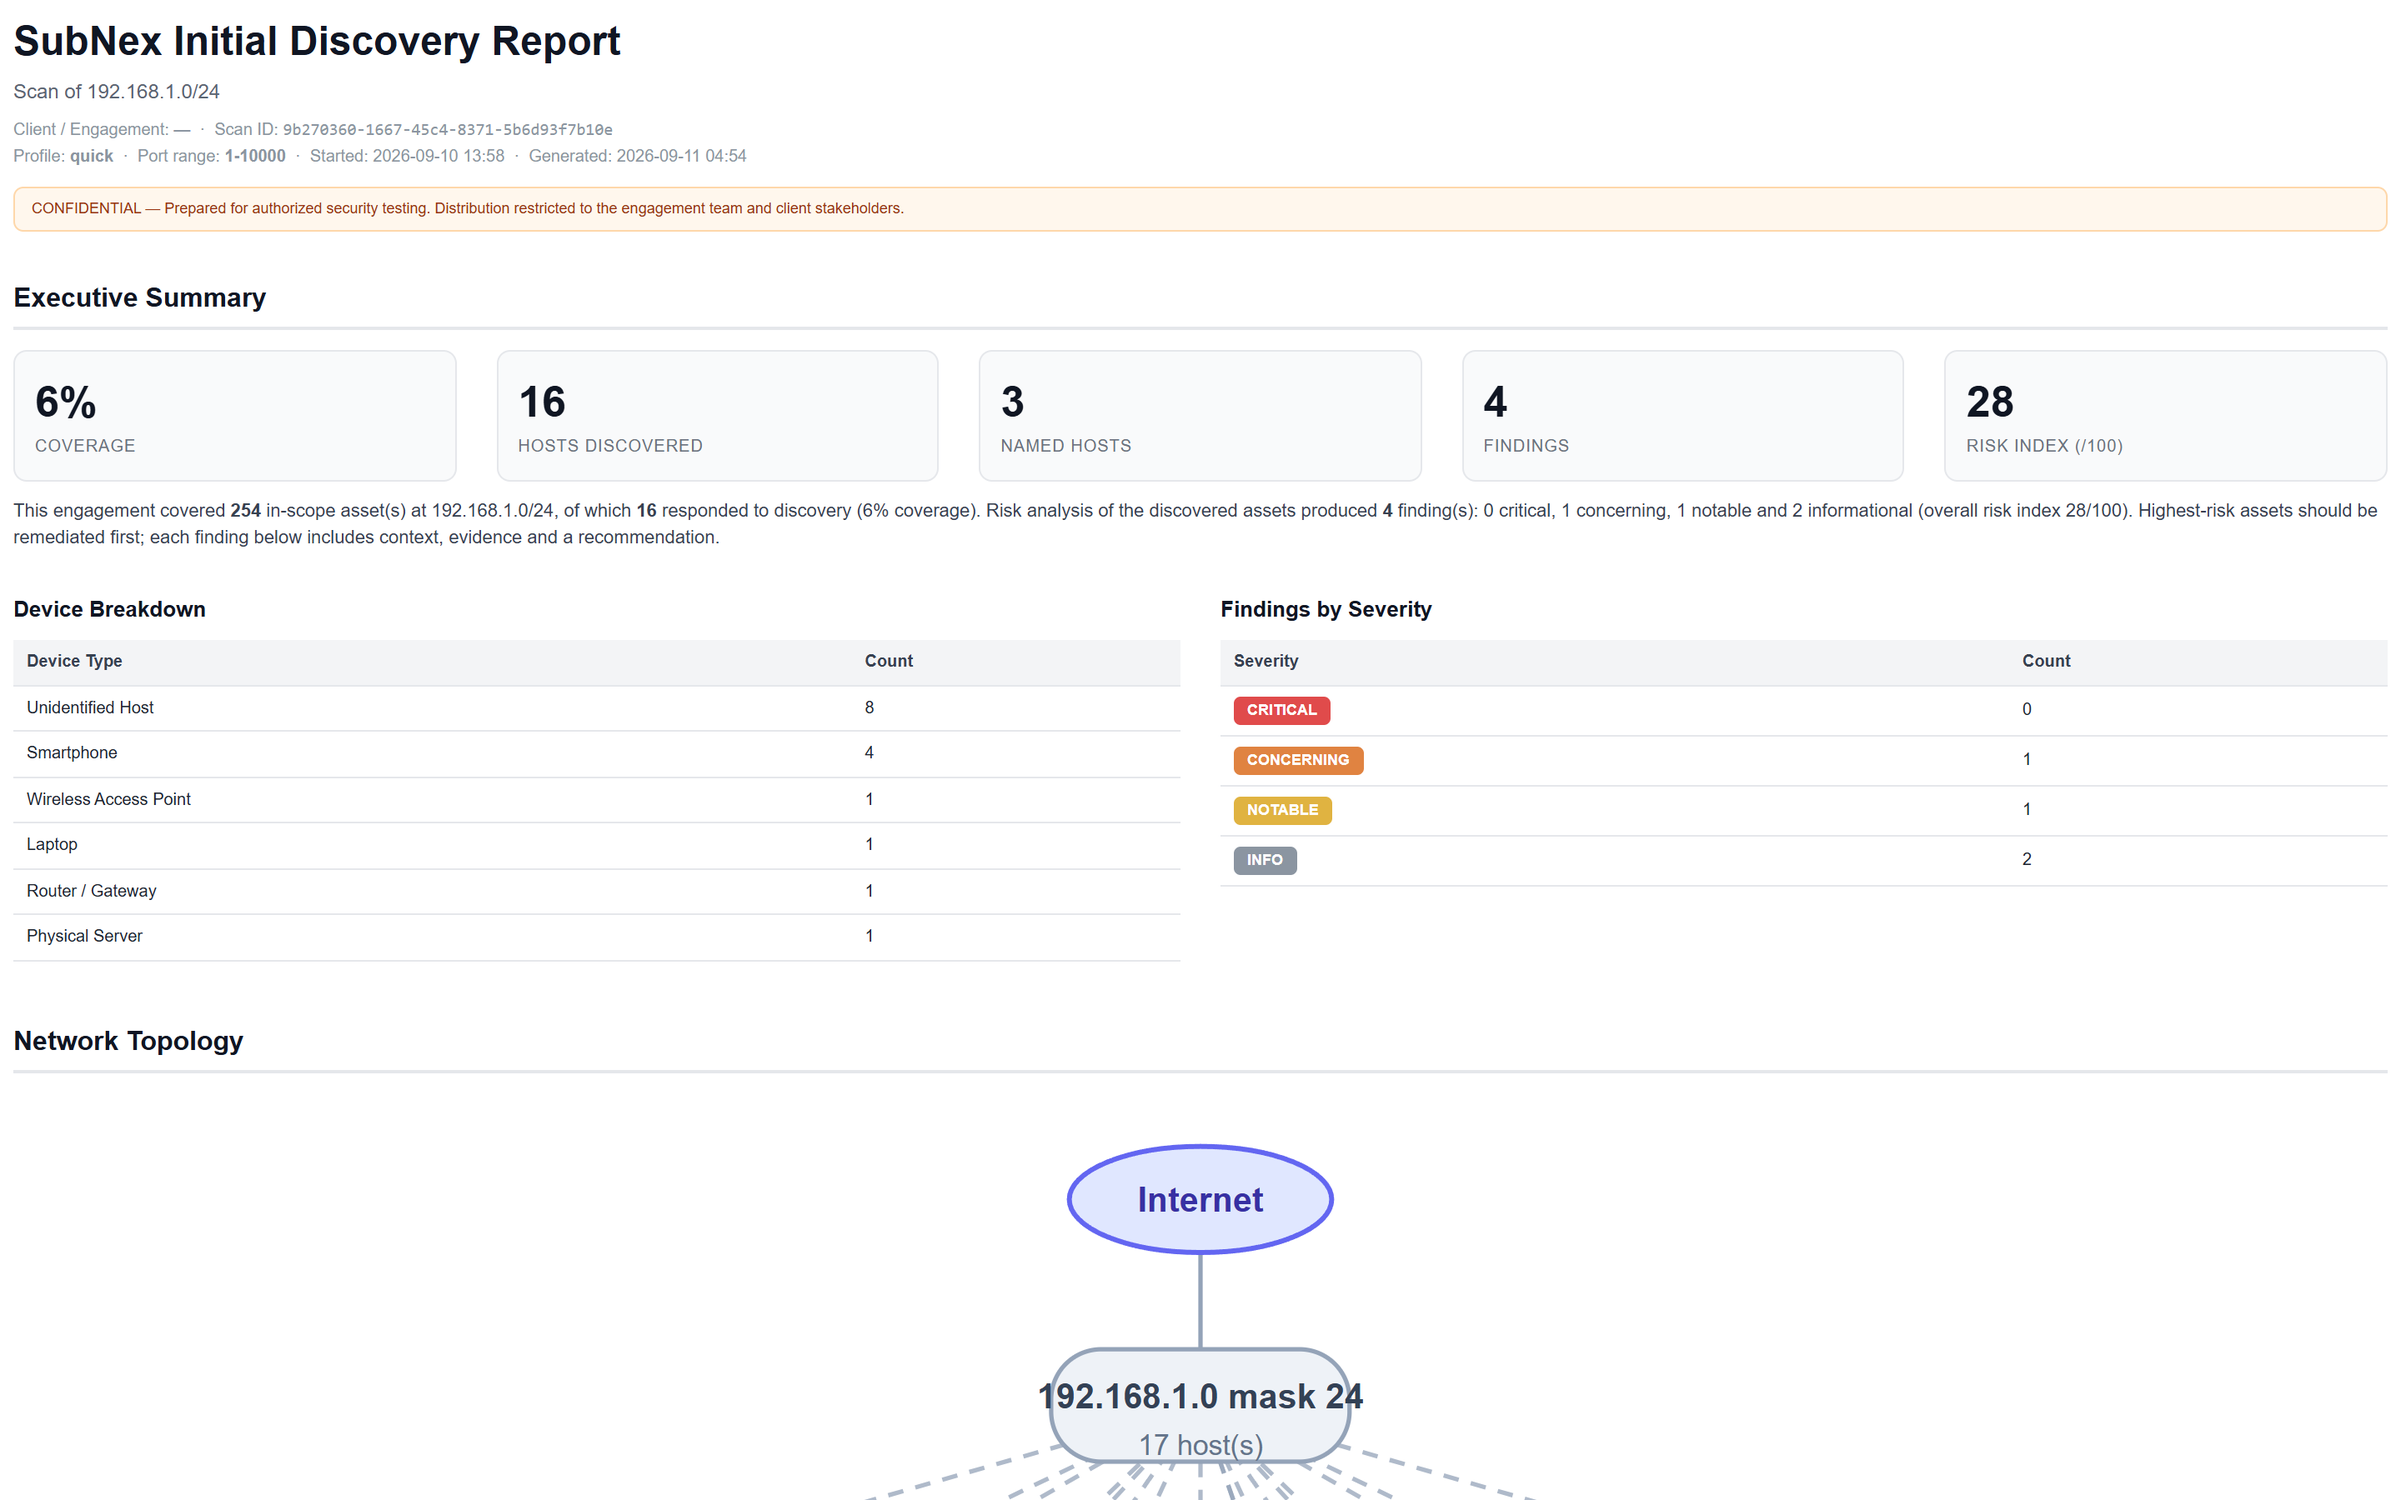
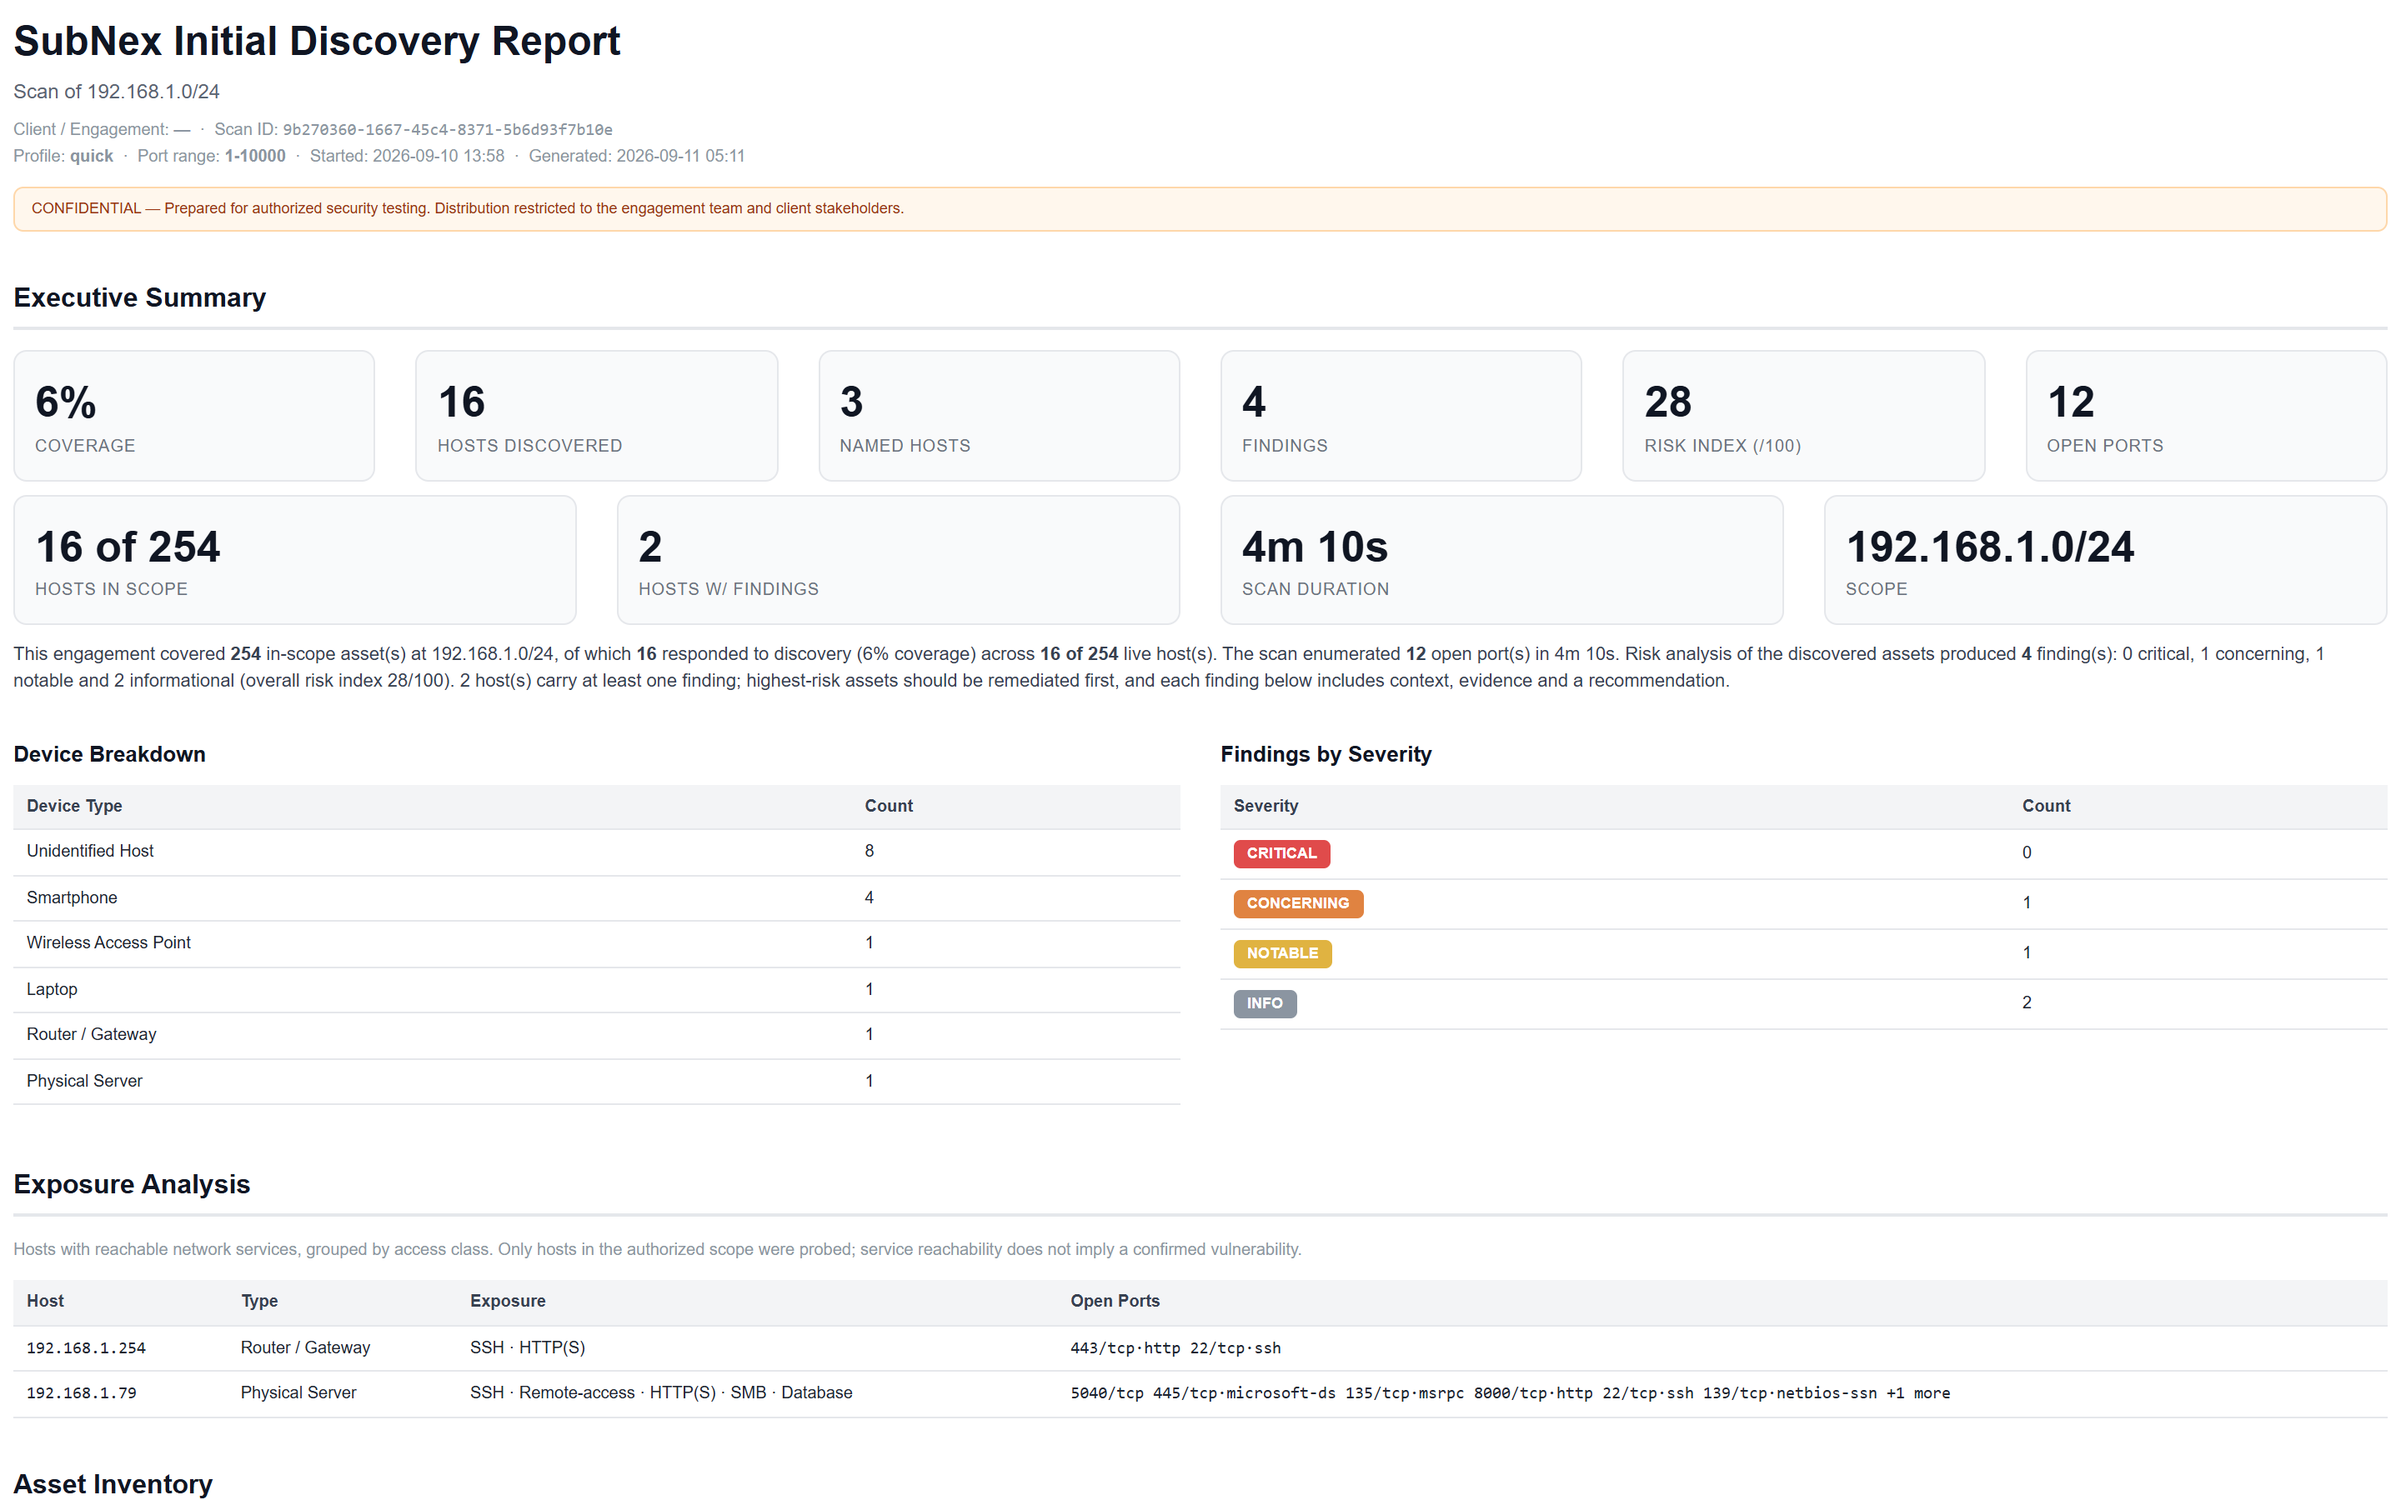
Richer PDF report: asset inventory table, exposure analysis, extended metrics, finding evidence
- Asset Inventory: per-host risk badge, IP, hostname, type, MAC, vendor, OS, open ports, findings, last-seen

- Exposure Analysis: hosts grouped by reachable service class (SSH/SMB/HTTP/DB/...)

- Executive metrics: open ports, scan duration, hosts-in-scope, hosts-with-findings

- Findings now include evidence blocks (NSE script + output), port chip; gitignore tsbuildinfo

diff --git a/backend/app/services/report_generator.py b/backend/app/services/report_generator.py
@@ -135,6 +135,53 @@ def _host_context(host) -> str:
     return " · ".join(parts)
 
 
+def _open_ports_for(host, ports_lookup):
+    """Return the open Port rows for a host (ports_lookup is keyed by host id)."""
+    return [p for p in (ports_lookup or {}).get(str(host.id), []) if getattr(p, "state", "open") == "open"]
+
+
+def _evidence_text(f) -> str:
+    """Render the NSE evidence dict (output/script) as readable text, capped at a sane size."""
+    ev = getattr(f, "evidence", None)
+    if not ev:
+        return ""
+    if isinstance(ev, dict):
+        script = ev.get("script") or ""
+        output = ev.get("output") or ""
+        if output and len(str(output)) > 900:
+            output = str(output)[:900] + "…"
+        return "\n".join(x for x in (str(script), str(output)) if x)
+    return str(ev)[:1200]
+
+
+def _exposure_brief(host, ports):
+    """Short exposure tags for a host based on its open ports, eg 'SSH · SMB · HTTP'."""
+    tags = []
+    by_port = {}
+    for p in ports:
+        by_port.setdefault(p.port, p)
+    if 22 in by_port:
+        tags.append("SSH")
+    if 21 in by_port:
+        tags.append("FTP")
+    if 23 in by_port:
+        tags.append("Telnet")
+    if {139, 445, 3389, 5900} & set(by_port):
+        tags.append("Remote-access")
+    web = {80, 443, 8000, 8080, 8443, 3000, 5000, 9000} & set(by_port)
+    if web:
+        tags.append("HTTP(S)")
+    if by_port.get(445) or by_port.get(139):
+        tags.append("SMB")
+    if by_port.get(5432) or by_port.get(3306) or by_port.get(1433) or by_port.get(27017):
+        tags.append("Database")
+    if by_port.get(53) or by_port.get(67) or by_port.get(68):
+        tags.append("Network-svc")
+    if 161 in by_port or 162 in by_port:
+        tags.append("SNMP")
+    return " · ".join(tags) or "—"
+
+
 def _build_html(scan, hosts, findings, ports_lookup, engagement=None) -> str:
     now = datetime.now().strftime("%Y-%m-%d %H:%M")
     # Only findings explicitly included for the client report are reflected in
@@ -154,6 +201,80 @@ def _build_html(scan, hosts, findings, ports_lookup, engagement=None) -> str:
     excluded = len(findings) - len(reported)
     named = sum(1 for h in hosts if h.hostname)
     excl_note = f" · {excluded} finding(s) excluded from this report" if excluded else ""
+
+    # ---- Extended scan metrics ------------------------------------------ #
+    started = getattr(scan, "started_at", None)
+    completed = getattr(scan, "completed_at", None)
+    if started and completed:
+        dur = max((completed - started).total_seconds(), 0)
+        if dur >= 3600:
+            dur_txt = f"{int(dur // 3600)}h {int((dur % 3600) // 60)}m {int(dur % 60)}s"
+        elif dur >= 60:
+            dur_txt = f"{int(dur // 60)}m {int(dur % 60)}s"
+        else:
+            dur_txt = f"{int(dur)}s"
+    else:
+        dur_txt = "—"
+    open_ports_total = 0
+    for h in hosts:
+        open_ports_total += len(_open_ports_for(h, ports_lookup))
+    hosts_with_findings = {str(f.host_id) for f in reported if f.host_id}
+    with_findings = sum(1 for h in hosts if str(h.id) in hosts_with_findings)
+    inst_of_scope = (scan.hosts_total_in_scope or 0)
+    host_counts = (
+        f"{len(hosts)} of {inst_of_scope}" if inst_of_scope else str(len(hosts))
+    )
+
+    # ---- Asset inventory table ------------------------------------------ #
+    worst = _hosts_in_report(hosts, reported)
+    inv_rows = "".join(
+        f"""
+        <tr>
+          <td><span class="badge pill" style="background:{SEVERITY_COLOR.get(worst.get(str(h.id), 'info'), '#8B95A1')}">{SEVERITY_LABEL.get(worst.get(str(h.id), 'info'), '—')}</span></td>
+          <td class="mono">{_esc(h.ip)}</td>
+          <td>{_esc(h.hostname) if getattr(h, "hostname", None) else '<span class="muted">—</span>'}</td>
+          <td>{_esc(DEVICE_TYPE_LABEL.get(getattr(h, "device_type", None), "Unidentified"))}</td>
+          <td class="mono">{_esc(h.mac) if getattr(h, "mac", None) else '<span class="muted">—</span>'}</td>
+          <td>{_esc(h.vendor) if getattr(h, "vendor", None) else '<span class="muted">—</span>'}</td>
+          <td>{_esc(h.os_guess or "—")}</td>
+          <td>{cells_for_open_ports(_open_ports_for(h, ports_lookup))}</td>
+          <td>{len([f for f in reported if f.host_id and str(f.host_id) == str(h.id)])}</td>
+          <td class="nowrap">{_esc(h.last_seen.strftime("%Y-%m-%d %H:%M") if getattr(h, "last_seen", None) else "—")}</td>
+        </tr>"""
+        for h in sorted(hosts, key=lambda x: (SEVERITY_ORDER.get(worst.get(str(x.id), "info"), 9), str(x.ip)))
+    )
+    asset_inventory = f"""
+  <h2>Asset Inventory</h2>
+  <p class="meta">{len(hosts)} asset(s) discovered · {with_findings} with findings · {
+      _esc(', '.join(scan.targets))} · snapshots below are per host last-seen</p>
+  <table>
+    <thead><tr>
+      <th>Risk</th><th>IP</th><th>Hostname</th><th>Type</th><th>MAC</th><th>Vendor</th>
+      <th>OS</th><th>Open Ports</th><th>Findings</th><th>Last Seen</th>
+    </tr></thead>
+    <tbody>{inv_rows}</tbody>
+  </table>"""
+
+    # ---- Exposure analysis ---------------------------------------------- #
+    exposure_rows = []
+    for h in sorted(hosts, key=lambda x: str(x.ip)):
+        tags = _exposure_brief(h, _open_ports_for(h, ports_lookup))
+        if tags == "—":
+            continue
+        exposure_rows.append(
+            f'<tr><td class="mono">{_esc(h.ip)}</td><td>{_esc(DEVICE_TYPE_LABEL.get(getattr(h, "device_type", None), "Unidentified"))}</td><td>{_esc(tags)}</td><td class="mono">{cells_for_open_ports(_open_ports_for(h, ports_lookup))}</td></tr>'
+        )
+    exposures_html = ""
+    if exposure_rows:
+        exposures_html = f"""
+  <h2>Exposure Analysis</h2>
+  <p class="meta">Hosts with reachable network services, grouped by access class. Only hosts in
+  the authorized scope were probed; service reachability does not imply a confirmed
+  vulnerability.</p>
+  <table>
+    <thead><tr><th>Host</th><th>Type</th><th>Exposure</th><th>Open Ports</th></tr></thead>
+    <tbody>{''.join(exposure_rows)}</tbody>
+  </table>"""
 
     device_rows = "".join(
         f"<tr><td>{_esc(name)}</td><td>{count}</td></tr>" for name, count in breakdown
@@ -189,6 +310,17 @@ def _build_html(scan, hosts, findings, ports_lookup, engagement=None) -> str:
             cve_chips = "".join(
                 f'<span class="chip">{_esc(cve)}</span>' for cve in (f.cve_refs or [])
             )
+            ev_text = _evidence_text(f)
+            evidence_html = ""
+            if ev_text:
+                evidence_html = (
+                    f'<p class="ev-label">Evidence</p>'
+                    f'<pre class="evidence">{_esc(ev_text)}</pre>'
+                )
+            if getattr(f, "port", None):
+                port_chip = f'<span class="chip port">port {_esc(f.port)}</span>'
+            else:
+                port_chip = ""
             cvss_row = ""
             if getattr(f, "cvss_score", None) is not None or getattr(f, "cwe", None):
                 bits = []
@@ -205,12 +337,14 @@ def _build_html(scan, hosts, findings, ports_lookup, engagement=None) -> str:
               <div class="finding-head">
                 <span class="badge" style="background:{color}">{SEVERITY_LABEL.get(f.severity, f.severity)}</span>
                 {status_chip}
+                {port_chip}
                 <strong>{_esc(f.title)}</strong>
               </div>
               {host_ctx}
               {cvss_row}
               {f"<p>{_esc(f.description)}</p>" if f.description else ""}
               {f'<p class="mono chip-note">{cve_chips}</p>' if cve_chips else ""}
+              {evidence_html}
               {f'<p class="rec"><span>Recommendation:</span> {_esc(f.recommendation)}</p>' if f.recommendation else ""}
             </div>""")
     else:
@@ -254,6 +388,7 @@ def _build_html(scan, hosts, findings, ports_lookup, engagement=None) -> str:
   .chips {{ font-size: 10px; color: #374151; margin: 2px 0 4px; }}
   .thingy {{ display: inline-block; padding: 1px 6px; border: 1px solid #E5A50A; border-radius: 4px; color: #9A5B00; font-size: 9px; }}
   .dim {{ color: #9CA3AF; font-size: 8px; }}
+  .nowrap {{ white-space: nowrap; }}
   .mono {{ font-family: "SFMono-Regular", Consolas, "Liberation Mono", monospace; }}
   table {{ width: 100%; border-collapse: collapse; margin: 8px 0; }}
   th, td {{ text-align: left; padding: 6px 8px; border-bottom: 1px solid #E5E7EB; font-size: 10px; }}
@@ -264,6 +399,10 @@ def _build_html(scan, hosts, findings, ports_lookup, engagement=None) -> str:
   .stat .num {{ font-size: 26px; font-weight: 700; color: #101623; }}
   .stat .lbl {{ font-size: 10px; color: #6B7280; text-transform: uppercase; letter-spacing: .5px; }}
   .badge {{ display: inline-block; padding: 2px 8px; border-radius: 4px; color: #fff; font-size: 9px; font-weight: 600; text-transform: uppercase; }}
+  .badge.pill {{ min-width: 58px; text-align: center; }}
+  .chip.port {{ border-color: #94A3B8; color: #475569; }}
+  .ev-label {{ font-size: 9px; color: #8B95A1; text-transform: uppercase; letter-spacing: .5px; margin: 8px 0 2px; }}
+  .evidence {{ background: #0B1220; color: #C9D3E0; border: 1px solid #252F40; border-radius: 6px; padding: 8px 10px; font-size: 8.5px; line-height: 1.5; white-space: pre-wrap; font-family: "SFMono-Regular", Consolas, "Liberation Mono", monospace; }}
   .finding {{ border: 1px solid #E5E7EB; border-left: 4px solid #8B95A1; border-radius: 6px; padding: 10px 12px; margin-bottom: 10px; }}
   .finding-head {{ margin-bottom: 6px; }}
   .finding-host {{ font-size: 10px; color: #6B7280; margin-bottom: 6px; }}
@@ -296,15 +435,24 @@ def _build_html(scan, hosts, findings, ports_lookup, engagement=None) -> str:
     <div class="stat"><div class="num">{named}</div><div class="lbl">Named Hosts</div></div>
     <div class="stat"><div class="num">{len(reported)}</div><div class="lbl">Findings</div></div>
     <div class="stat"><div class="num">{risk_index}</div><div class="lbl">Risk Index (/100)</div></div>
+    <div class="stat"><div class="num">{open_ports_total}</div><div class="lbl">Open Ports</div></div>
+  </div>
+  <div class="grid" style="margin-bottom:8px;">
+    <div class="stat"><div class="num">{host_counts}</div><div class="lbl">Hosts in Scope</div></div>
+    <div class="stat"><div class="num">{with_findings}</div><div class="lbl">Hosts w/ Findings</div></div>
+    <div class="stat"><div class="num">{dur_txt}</div><div class="lbl">Scan Duration</div></div>
+    <div class="stat"><div class="num">{_esc(', '.join(getattr(scan, 'targets', []) or []))}</div><div class="lbl">Scope</div></div>
   </div>
   <p class="narrative">
     This engagement covered <b>{scan.hosts_total_in_scope or 0}</b> in-scope asset(s) at
     {_esc(', '.join(scan.targets))}, of which <b>{scan.hosts_discovered or 0}</b> responded to discovery
-    ({coverage}% coverage). Risk analysis of the discovered assets produced <b>{len(reported)}</b> finding(s):
+    ({coverage}% coverage) across <b>{host_counts}</b> live host(s). The scan enumerated
+    <b>{open_ports_total}</b> open port(s) in {dur_txt}. Risk analysis of the discovered assets produced <b>{len(reported)}</b> finding(s):
     {by_sev.get("critical", 0)} critical, {by_sev.get("concerning", 0)} concerning,
     {by_sev.get("notable", 0)} notable and {by_sev.get("info", 0)} informational
-    (overall risk index {risk_index}/100). Highest-risk assets should be remediated
-    first; each finding below includes context, evidence and a recommendation.
+    (overall risk index {risk_index}/100). {with_findings} host(s) carry at least one finding;
+    highest-risk assets should be remediated first, and each finding below includes
+    context, evidence and a recommendation.
   </p>
 
   <div class="grid">
@@ -323,6 +471,8 @@ def _build_html(scan, hosts, findings, ports_lookup, engagement=None) -> str:
       </table>
     </div>
   </div>
+{exposures_html}
+{asset_inventory}
 {topo_html}
   <h2>Risk Findings<span class="muted"> ({len(reported)} shown{excl_note})</span></h2>
   {findings_html}
